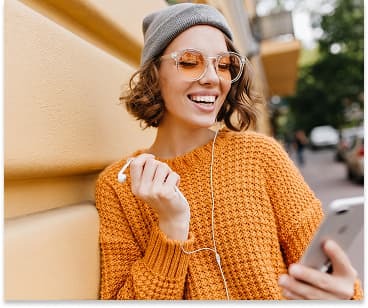
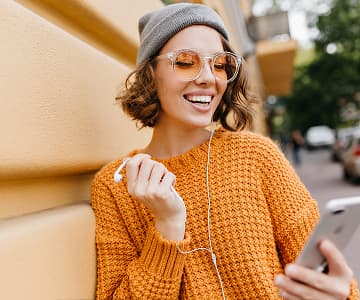
correct three

diff --git a/index.html b/index.html
@@ -300,13 +300,11 @@
                   width="360"
                   height="300"
                 />
-                <div class="overlay">
-                  <p class="parag-overlay">
-                    14 Stylish and User-Friendly App Design Concepts · Task
-                    Manager App · Calorie Tracker App · Exotic Fruit Ecommerce
-                    App · Cloud Storage App
-                  </p>
-                </div>
+                <p class="parag-overlay">
+                  14 Stylish and User-Friendly App Design Concepts · Task
+                  Manager App · Calorie Tracker App · Exotic Fruit Ecommerce App
+                  · Cloud Storage App
+                </p>
               </div>
               <div class="card-sfour">
                 <h3 class="header-sfour">Banking App</h3>
@@ -322,13 +320,11 @@
                   width="360"
                   height="300"
                 />
-                <div class="overlay">
-                  <p class="parag-overlay">
-                    14 Stylish and User-Friendly App Design Concepts · Task
-                    Manager App · Calorie Tracker App · Exotic Fruit Ecommerce
-                    App · Cloud Storage App
-                  </p>
-                </div>
+                <p class="parag-overlay">
+                  14 Stylish and User-Friendly App Design Concepts · Task
+                  Manager App · Calorie Tracker App · Exotic Fruit Ecommerce App
+                  · Cloud Storage App
+                </p>
               </div>
               <div class="card-sfour">
                 <h3 class="header-sfour">Cashless Payment</h3>
@@ -344,13 +340,11 @@
                   width="360"
                   height="300"
                 />
-                <div class="overlay">
-                  <p class="parag-overlay">
-                    14 Stylish and User-Friendly App Design Concepts · Task
-                    Manager App · Calorie Tracker App · Exotic Fruit Ecommerce
-                    App · Cloud Storage App
-                  </p>
-                </div>
+                <p class="parag-overlay">
+                  14 Stylish and User-Friendly App Design Concepts · Task
+                  Manager App · Calorie Tracker App · Exotic Fruit Ecommerce App
+                  · Cloud Storage App
+                </p>
               </div>
               <div class="card-sfour">
                 <h3 class="header-sfour">Meditation App</h3>
@@ -366,13 +360,11 @@
                   width="360"
                   height="300"
                 />
-                <div class="overlay">
-                  <p class="parag-overlay">
-                    14 Stylish and User-Friendly App Design Concepts · Task
-                    Manager App · Calorie Tracker App · Exotic Fruit Ecommerce
-                    App · Cloud Storage App
-                  </p>
-                </div>
+                <p class="parag-overlay">
+                  14 Stylish and User-Friendly App Design Concepts · Task
+                  Manager App · Calorie Tracker App · Exotic Fruit Ecommerce App
+                  · Cloud Storage App
+                </p>
               </div>
               <div class="card-sfour">
                 <h3 class="header-sfour">Taxi Service</h3>
@@ -388,13 +380,11 @@
                   width="360"
                   height="300"
                 />
-                <div class="overlay">
-                  <p class="parag-overlay">
-                    14 Stylish and User-Friendly App Design Concepts · Task
-                    Manager App · Calorie Tracker App · Exotic Fruit Ecommerce
-                    App · Cloud Storage App
-                  </p>
-                </div>
+                <p class="parag-overlay">
+                  14 Stylish and User-Friendly App Design Concepts · Task
+                  Manager App · Calorie Tracker App · Exotic Fruit Ecommerce App
+                  · Cloud Storage App
+                </p>
               </div>
               <div class="card-sfour">
                 <h3 class="header-sfour">Screen Illustrations</h3>
@@ -410,13 +400,11 @@
                   width="360"
                   height="300"
                 />
-                <div class="overlay">
-                  <p class="parag-overlay">
-                    14 Stylish and User-Friendly App Design Concepts · Task
-                    Manager App · Calorie Tracker App · Exotic Fruit Ecommerce
-                    App · Cloud Storage App
-                  </p>
-                </div>
+                <p class="parag-overlay">
+                  14 Stylish and User-Friendly App Design Concepts · Task
+                  Manager App · Calorie Tracker App · Exotic Fruit Ecommerce App
+                  · Cloud Storage App
+                </p>
               </div>
               <div class="card-sfour">
                 <h3 class="header-sfour">Online Courses</h3>

diff --git a/css/styles.css b/css/styles.css
@@ -329,11 +329,6 @@ img {
     flex-basis: calc((100% - 48px) / 3);
 }
 
-.image-sfour {
-    width: 360px;
-    height: 300px;
-}
-
 .header-sfour{
     margin-bottom: 8px;
 }
@@ -344,6 +339,10 @@ img {
     border-left: 1px solid #e7e9fc;
     border-right: 1px solid #e7e9fc;
     transition: box-shadow 250ms cubic-bezier(0.4, 0, 0.2, 1);
+}
+
+.image-sfour {
+    width: 360px;
 }
 
 .card-sfour-overlay {
@@ -419,6 +418,9 @@ img {
     margin-right: auto;
     display: flex;
     align-items: baseline;
+}
+
+.logo-part-container {
     margin-right: 120px;
 }
 
